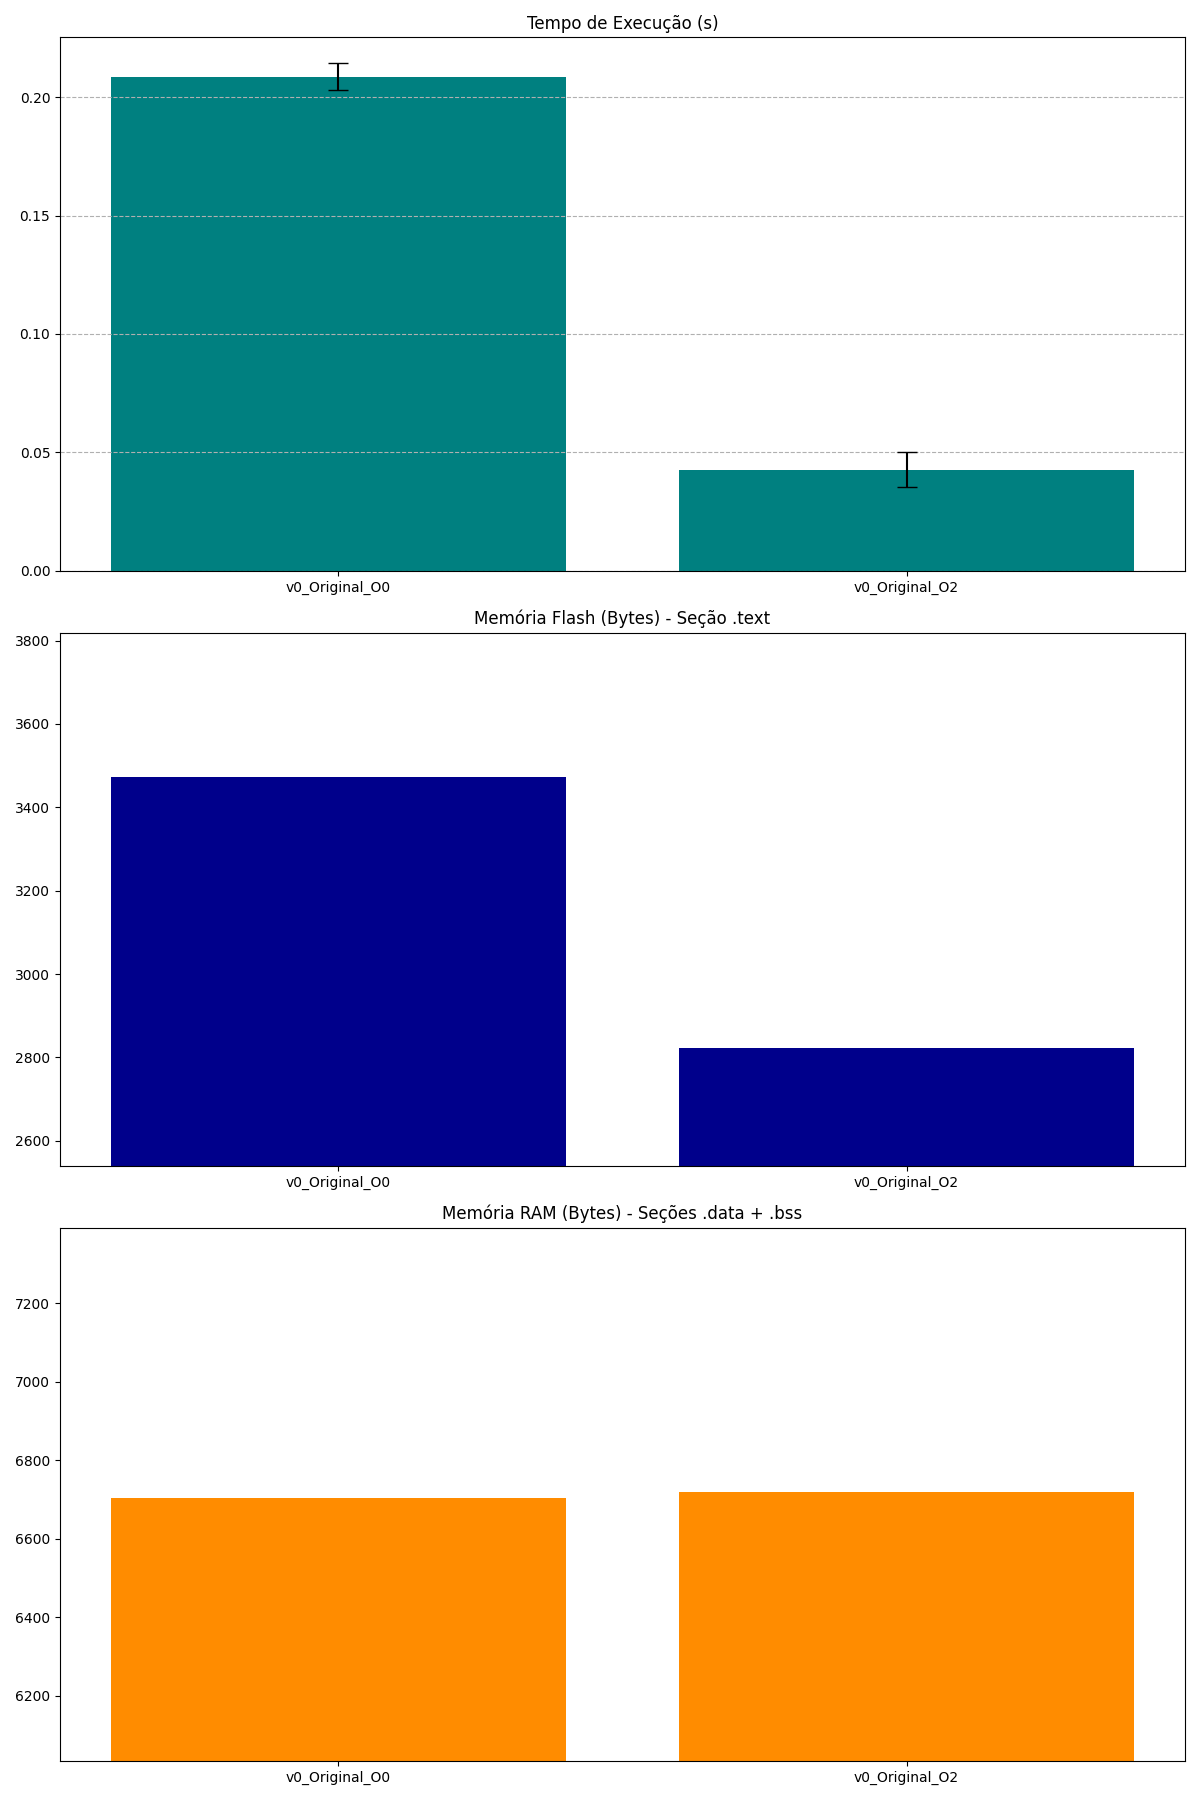
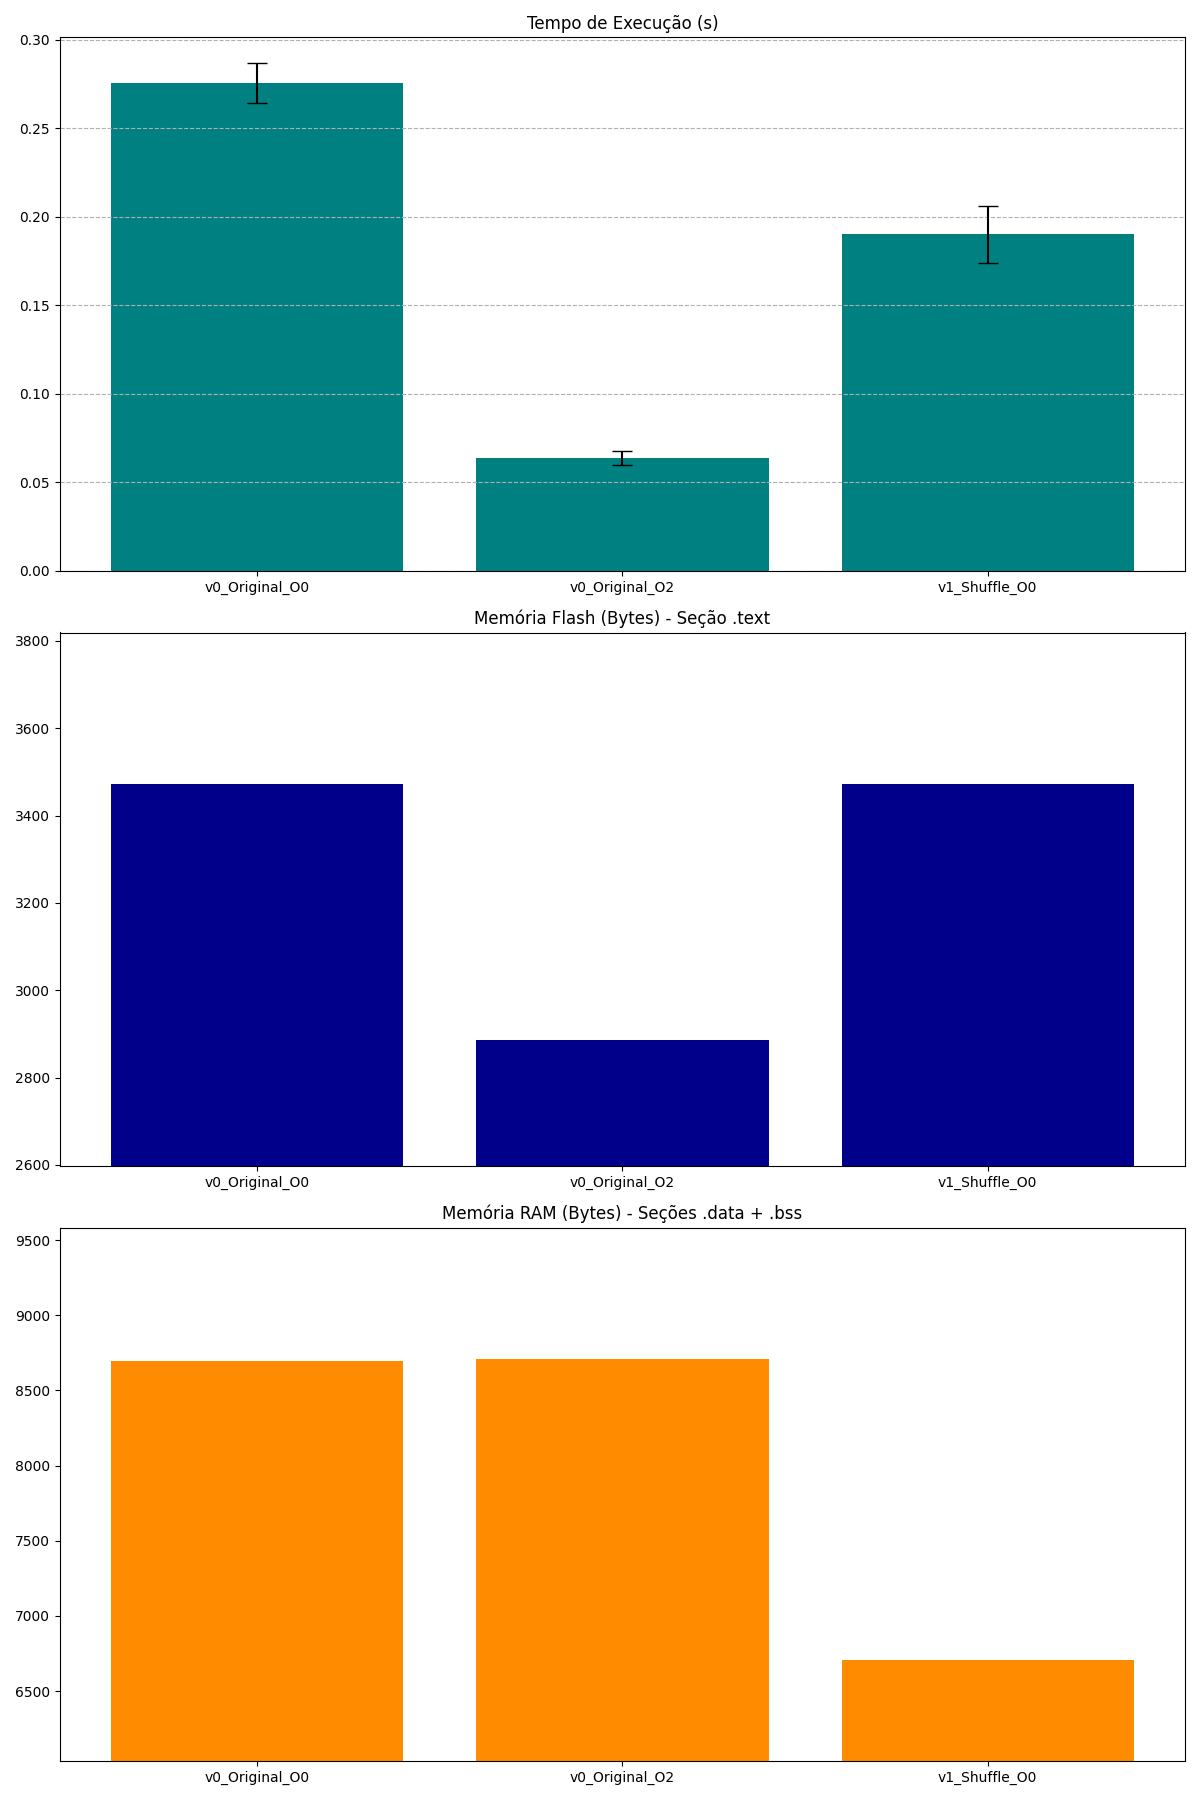
test: shuffle on  notebook

diff --git a/T3/notebook/algoritmo_v0_original.c b/T3/notebook/algoritmo_v0_original.c
@@ -2,7 +2,7 @@
 #include <string.h>
 #include <time.h>
 
-#define DATASET_MAX_SAMPLES 750
+#define DATASET_MAX_SAMPLES 1000
 #define GRADIENT_EPOCHS 30000
 #define GRADIENT_LR_A 1e-5f
 #define GRADIENT_LR_B 1e-5f
@@ -97,7 +97,7 @@ static void salvar_parametros_finais(double tempo_cpu) {
 
 int main(void) {
     // Remova todos os printf("=======...") do main
-    if (!carregar_csv("../data/shuffle/dataset_randomico0.csv")) return 1;
+    if (!carregar_csv("../data/original/dataset_original0.csv")) return 1;
 
     clock_t inicio = clock();
     gradient_run(); // Sua função de treino
